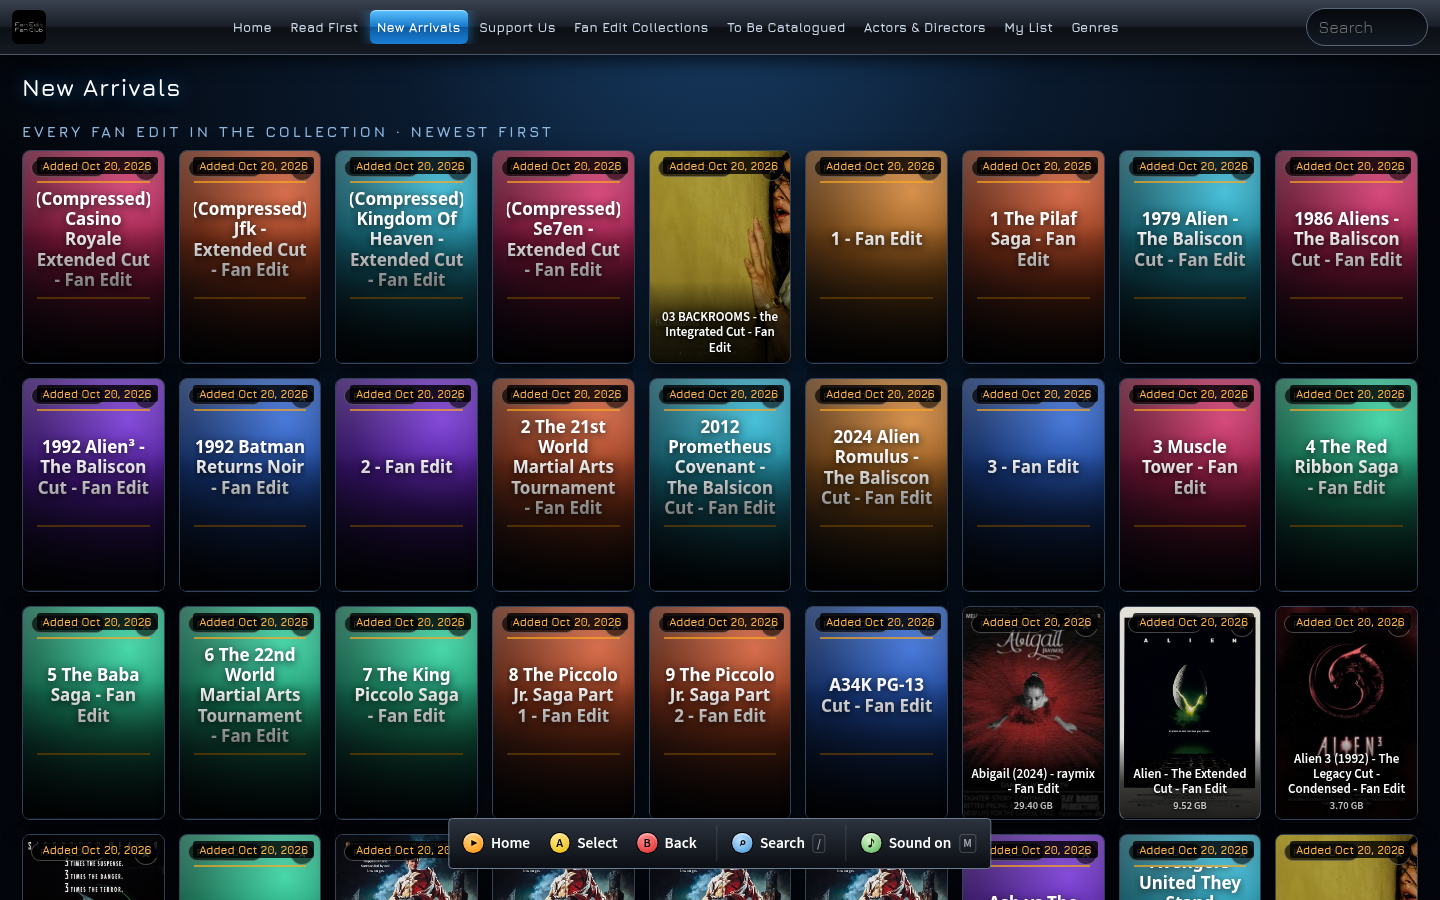
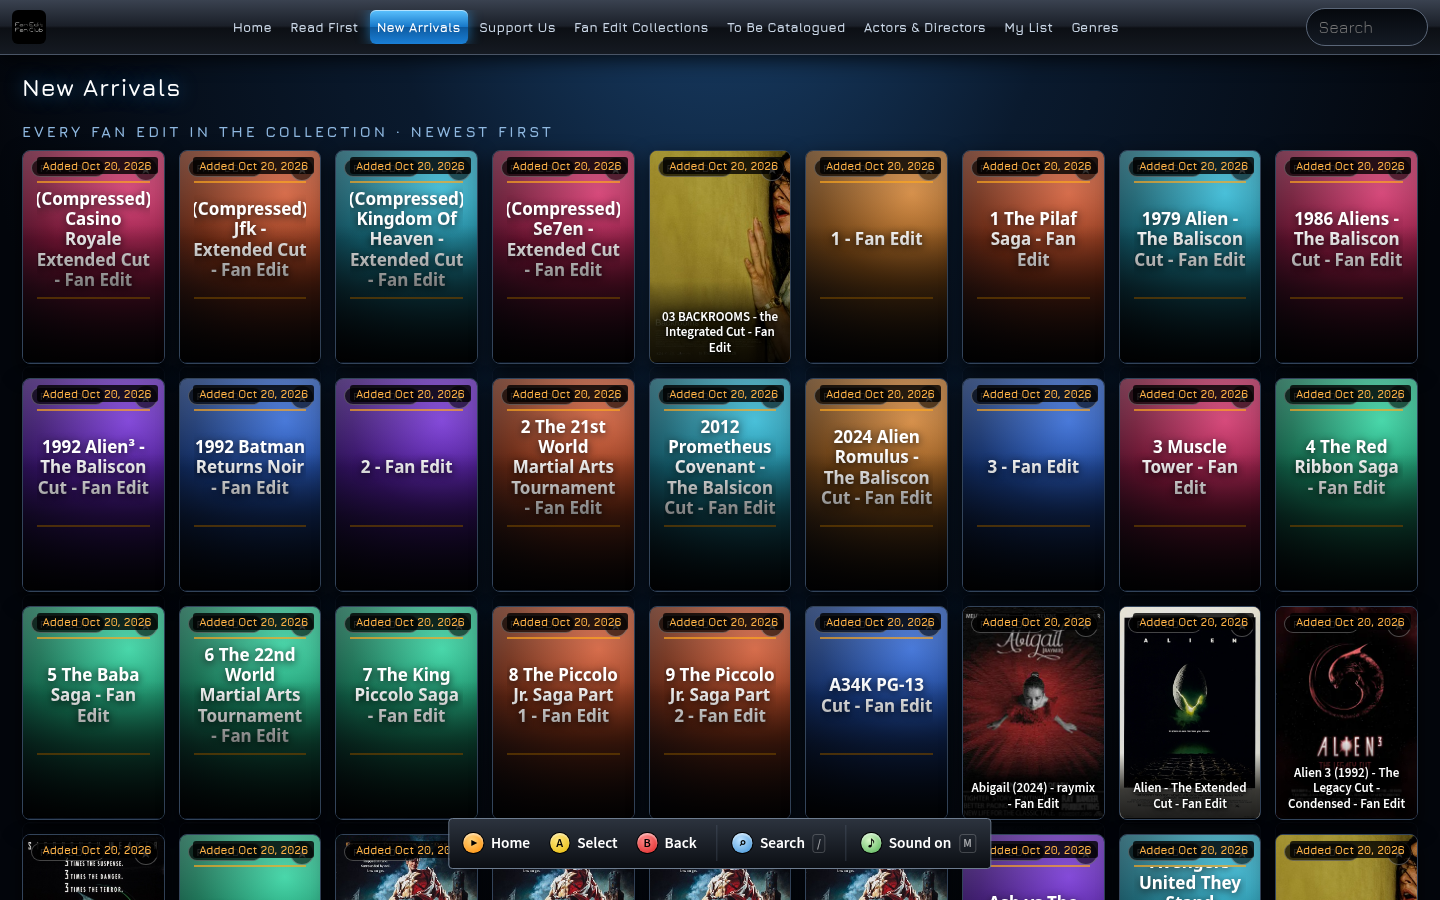
Grid tiles: drop file size from poster overlays and captions (size shown on details page only)

Changed region(s): [[0.6875, 0.8089, 1.0, 0.9022]]

diff --git a/src/app.js b/src/app.js
@@ -59,7 +59,7 @@ const cache=JSON.parse(localStorage.fefcCache||'{}');const save=()=>localStorage
 async function tmdbFind(q,year){if(!C.TMDB_API_KEY)return null;const k='t:'+q+year;if(k in cache)return cache[k];
  try{const j=await(await fetch(`https://api.themoviedb.org/3/search/multi?api_key=${C.TMDB_API_KEY}&query=${encodeURIComponent(q)}${year?'&year='+year:''}`)).json();cache[k]=(j.results||[]).find(x=>x.poster_path)||null}catch(e){cache[k]=null}save();return cache[k]}
 function artBg(f){const h=HUES[hash(parse(f.name).series||f.name)%8];return `radial-gradient(circle at 75% 20%,hsl(${h} 90% 60% / .85),hsl(${h} 70% 25%) 45%,#050a14 100%)`}
-function tile(f,live_){const fold=isFolder(f),p=parse(f.name),vid=!fold&&isVid(f),pp=fold&&people[target(f)];const cls=fold?(pp?'person':'fold'):vid?'vid':'doc';const ad=cls==='doc'&&/^\s*\w{1,3}\s*-\s*support\b|support patreon|paypal\/venmo/i.test(f.name);return `<button class="ol-tile ${cls}${ad?' ad':''} ${live_?'live':''}" data-id="${f.id}" title="${esc(f.name)}"><div class="art" style="background:${artBg(f)}">${vid?`<div class="ptitle">${esc(p.raw)}</div>`:''}</div><span class="kind">${live_?'NEW':pp?(pp.role==='director'?'DIRECTOR':'ACTOR'):fold?'COLLECTION':vid?'FAN EDIT':'DOCUMENT'}</span>${(fold||vid)?`<span class="star${window.UD&&UD.isStarred(f.id)?' on':''}" data-star="${f.id}" role="button" aria-label="Star" title="Star (S)">★</span>`:''}${vid?`<div class="pcap ${(()=>{const n=p.raw.length;return n>90?'c4':n>55?'c3':n>30?'c2':'c1'})()}">${esc(p.raw)}${f.size?`<small>${sz(f.size)}</small>`:''}</div>`:''}<div class="nm">${esc(fold?f.name:p.raw)}${!fold&&f.size?`<br><small style="opacity:.6">${sz(f.size)}</small>`:''}</div></button>`}
+function tile(f,live_){const fold=isFolder(f),p=parse(f.name),vid=!fold&&isVid(f),pp=fold&&people[target(f)];const cls=fold?(pp?'person':'fold'):vid?'vid':'doc';const ad=cls==='doc'&&/^\s*\w{1,3}\s*-\s*support\b|support patreon|paypal\/venmo/i.test(f.name);return `<button class="ol-tile ${cls}${ad?' ad':''} ${live_?'live':''}" data-id="${f.id}" title="${esc(f.name)}"><div class="art" style="background:${artBg(f)}">${vid?`<div class="ptitle">${esc(p.raw)}</div>`:''}</div><span class="kind">${live_?'NEW':pp?(pp.role==='director'?'DIRECTOR':'ACTOR'):fold?'COLLECTION':vid?'FAN EDIT':'DOCUMENT'}</span>${(fold||vid)?`<span class="star${window.UD&&UD.isStarred(f.id)?' on':''}" data-star="${f.id}" role="button" aria-label="Star" title="Star (S)">★</span>`:''}${vid?`<div class="pcap ${(()=>{const n=p.raw.length;return n>90?'c4':n>55?'c3':n>30?'c2':'c1'})()}">${esc(p.raw)}</div>`:''}<div class="nm">${esc(fold?f.name:p.raw)}</div></button>`}
 async function art(el,f){let src=null;const p=parse(f.name);
  if(isFolder(f)&&people[target(f)])src=people[target(f)].url;else if(!isFolder(f)&&isVid(f)){const ps=posters[f.id]||posters[target(f)];if(!ps)return;src=ps.url;el.classList.add('has-poster')}else
  if(isFolder(f)){const fid=target(f);let t=fthumbs[fid];if(!t){let q=[fid];for(let d=0;d<3&&!t&&q.length;d++){const nq=[];for(const id of q){const ks=kids.get(id)||[],v=ks.find(x=>!isFolder(x)&&isVid(x));if(v){t=target(v);break}ks.forEach(x=>{if(isFolder(x))nq.push(target(x))})}q=nq.slice(0,40)}}if(t)src=t.startsWith('assets/')?t:'https://drive.google.com/thumbnail?sz=w640&id='+t}

diff --git a/index.html b/index.html
@@ -5,7 +5,7 @@
 <link rel="apple-touch-icon" href="/assets/apple-touch-icon.png"><meta name="apple-mobile-web-app-capable" content="yes"><meta name="mobile-web-app-capable" content="yes">
 <meta name="apple-mobile-web-app-status-bar-style" content="black"><meta name="apple-mobile-web-app-title" content="FEFC Collection"><meta name="application-name" content="FEFC Collection">
 <link href="https://fonts.googleapis.com/css2?family=Jura:wght@400;600;700&family=Antonio:wght@500;700&display=swap" rel="stylesheet">
-<link rel="stylesheet" href="assets/fonts/fonts.css?v=mvhqn1sr"><link rel="stylesheet" href="style.css?v=mvhqn1sr"></head><body>
+<link rel="stylesheet" href="assets/fonts/fonts.css?v=mvhqwdu5"><link rel="stylesheet" href="style.css?v=mvhqwdu5"></head><body>
 <div id="intro"><div class="ihint">Skip ›</div></div>
 <p id="tagline"><img id="wordmark" src="assets/fefc-wordmark.png" alt="Fan Edit Fan Club"><span>A Community for Creators, Editors &amp; Fans dedicated to the art of The Fan Edit.</span></p>
 <div id="rfpanel" hidden><div class="rf-in"><div class="rf-top"><span>Read First</span><button id="rfclose" class="hint-btn rf-x" aria-label="Close"><i class="g g-b">B</i>Close</button></div><div class="rf-scroll"><article id="rfdoc" tabindex="0" aria-label="Read First"></article></div></div></div>
@@ -21,4 +21,4 @@
 <div id="details" hidden></div>
 <div id="player" hidden><div class="ptop"><button id="back" class="pill p1">◀ BACK</button><div class="bar b1"></div><h2 id="ptitle"></h2><a id="popen" class="pill p2" target="_blank">OPEN IN DRIVE</a></div><div class="pwrap"><iframe id="pframe" allow="autoplay; fullscreen" allowfullscreen></iframe></div></div>
 <div id="hints"><span><i class="g g-o"></i>Home</span><span><i class="g g-a">A</i>Select</span><span><i class="g g-b">B</i>Back</span><button class="hint-btn" id="hsearch" data-hint="search"><i class="g g-s">⌕</i>Search <kbd>/</kbd></button><button class="hint-btn" id="hmute" data-hint="mute"><i class="g g-m">♪</i><span id="hmutel">Sound on</span> <kbd>M</kbd></button></div>
-<script src="config.js?v=mvhqn1sr"></script><script src="audio.js?v=mvhqn1sr"></script><script src="intro.js?v=mvhqn1sr"></script><script src="readfirst.js?v=mvhqn1sr"></script><script src="newarrivals.js?v=mvhqn1sr"></script><script src="zoom.js?v=mvhqn1sr"></script><script src="userdata.js?v=mvhqn1sr"></script><script src="sync.js?v=mvhqn1sr"></script><script src="syncui.js?v=mvhqn1sr" defer></script><script src="genres.js?v=mvhqn1sr"></script><script src="app.js?v=mvhqn1sr"></script></body></html>
+<script src="config.js?v=mvhqwdu5"></script><script src="audio.js?v=mvhqwdu5"></script><script src="intro.js?v=mvhqwdu5"></script><script src="readfirst.js?v=mvhqwdu5"></script><script src="newarrivals.js?v=mvhqwdu5"></script><script src="zoom.js?v=mvhqwdu5"></script><script src="userdata.js?v=mvhqwdu5"></script><script src="sync.js?v=mvhqwdu5"></script><script src="syncui.js?v=mvhqwdu5" defer></script><script src="genres.js?v=mvhqwdu5"></script><script src="app.js?v=mvhqwdu5"></script></body></html>

diff --git a/app.js b/app.js
@@ -315,7 +315,7 @@ var __spreadValues = (a, b) => {
     return '<button class="ol-tile '.concat(cls).concat(ad ? " ad" : "", " ").concat(live_ ? "live" : "", '" data-id="').concat(f.id, '" title="').concat(esc(f.name), '"><div class="art" style="background:').concat(artBg(f), '">').concat(vid ? '<div class="ptitle">'.concat(esc(p.raw), "</div>") : "", '</div><span class="kind">').concat(live_ ? "NEW" : pp ? pp.role === "director" ? "DIRECTOR" : "ACTOR" : fold ? "COLLECTION" : vid ? "FAN EDIT" : "DOCUMENT", "</span>").concat(fold || vid ? '<span class="star'.concat(window.UD && UD.isStarred(f.id) ? " on" : "", '" data-star="').concat(f.id, '" role="button" aria-label="Star" title="Star (S)">\u2605</span>') : "").concat(vid ? '<div class="pcap '.concat((() => {
       const n = p.raw.length;
       return n > 90 ? "c4" : n > 55 ? "c3" : n > 30 ? "c2" : "c1";
-    })(), '">').concat(esc(p.raw)).concat(f.size ? "<small>".concat(sz(f.size), "</small>") : "", "</div>") : "", '<div class="nm">').concat(esc(fold ? f.name : p.raw)).concat(!fold && f.size ? '<br><small style="opacity:.6">'.concat(sz(f.size), "</small>") : "", "</div></button>");
+    })(), '">').concat(esc(p.raw), "</div>") : "", '<div class="nm">').concat(esc(fold ? f.name : p.raw), "</div></button>");
   }
   async function art(el, f) {
     let src = null;

diff --git a/sw.js b/sw.js
@@ -1,5 +1,5 @@
 // FEFC Collection service worker. Version is stamped at build time; a new build = new cache.
-const V='mvhqn1sr',SHELL='fefc-shell-'+V;
+const V='mvhqwdu5',SHELL='fefc-shell-'+V;
 const ASSETS=['/','/index.html','/style.css','/config.js','/audio.js','/app.js','/intro.js','/zoom.js','/readfirst.js','/assets/fefc-logo-carson.png','/manifest.json','/assets/fonts/fonts.css','/assets/fonts/source-sans-3-400.ttf','/assets/fonts/source-sans-3-600.ttf','/assets/fefc-logo.png','/assets/icon-192.png','/assets/icon-512.png','/assets/apple-touch-icon.png','/favicon.ico'];
 self.addEventListener('install',e=>{e.waitUntil(caches.open(SHELL).then(c=>c.addAll(ASSETS.map(a=>new Request(a,{cache:'reload'})))).then(()=>self.skipWaiting()))});
 self.addEventListener('activate',e=>{e.waitUntil(caches.keys().then(ks=>Promise.all(ks.filter(k=>k!==SHELL).map(k=>caches.delete(k)))).then(()=>self.clients.claim()))});
